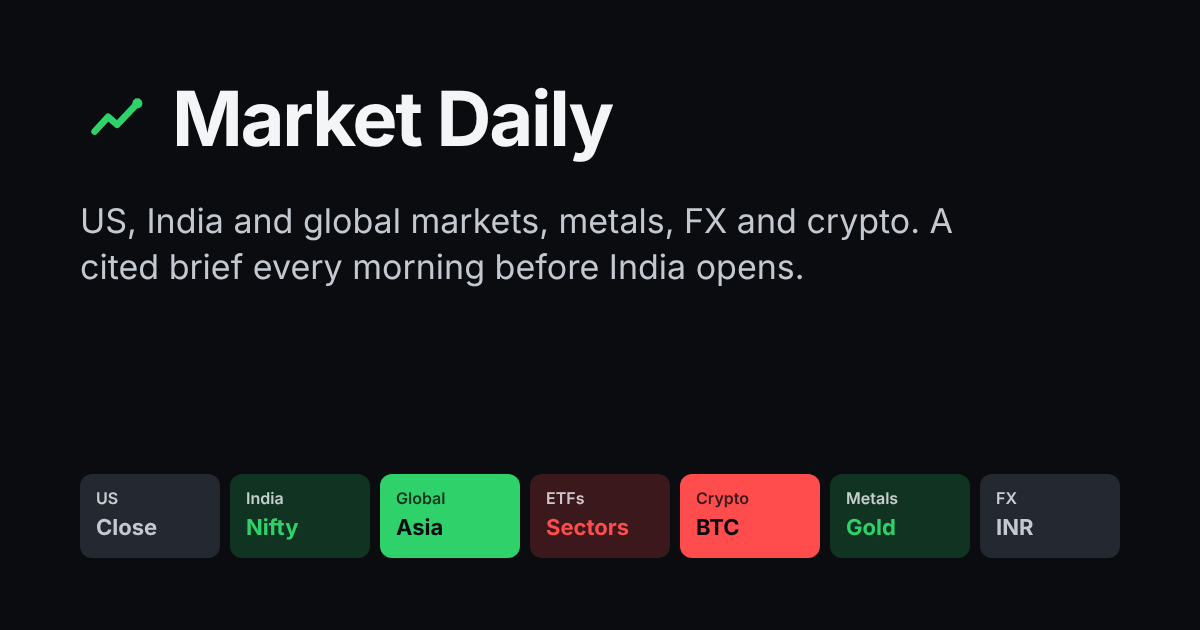
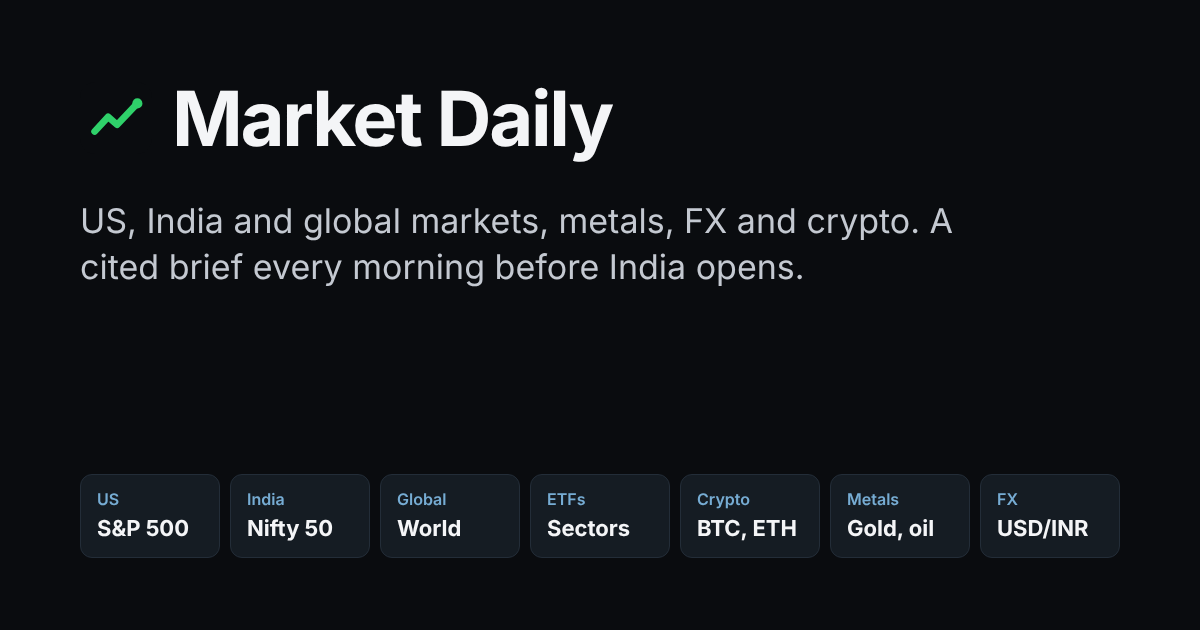
Review fixes: visible-by-default sections, consistent breadth, readability
- Sections never start hidden: the first-load motion is a 6px slide with no
  fade and no count-up, so previews, in-app browsers and background tabs see
  content
- Breadth gauge shows a percent and uses the same US, India and Global stock
  set as the What moved bars (41 of 156)
- Region bullets clamp to about two lines with a more/less toggle; on phones
  US and India summaries sit above the heatmaps
- Brighter secondary text in dark theme; phone ticker shows label over value
  and scrolls with an edge fade
- Fetch count opens a list of the assets that failed, with plain reasons
- IPO table drops Subscription and GMP columns until the brief has data;
  window status moves under the open date
- Calendar accepts date ranges for events without a confirmed day
- Brief: gold 1.2 percent from its low in This week, matching prices.json;
  undated results line moved to a 26 to 30 Oct range
- Routine prompt: one-decimal figures from prices.json used everywhere,
  ranges for undated calendar items
- Share card tiles are neutral so they never imply a direction

Note: b7cb23c says not merged to main; it was merged after review approval.

Claude-Session: https://claude.ai/code/session_01GLM1Jsr5Y5XpC82QRo9Mkp

diff --git a/index.html b/index.html
@@ -15,14 +15,14 @@
 <meta property="og:title" content="Market Daily">
 <meta property="og:description" content="US, India and global markets, metals, FX and crypto. A cited brief every morning before India opens.">
 <meta property="og:url" content="https://arnavhp18.github.io/market-daily/">
-<meta property="og:image" content="https://arnavhp18.github.io/market-daily/og.png">
+<meta property="og:image" content="https://arnavhp18.github.io/market-daily/og.png?v=2">
 <meta property="og:image:width" content="1200">
 <meta property="og:image:height" content="630">
 <meta property="og:image:alt" content="Market Daily: markets dashboard with a cited morning brief">
 <meta name="twitter:card" content="summary_large_image">
 <meta name="twitter:title" content="Market Daily">
 <meta name="twitter:description" content="US, India and global markets, metals, FX and crypto. A cited brief every morning before India opens.">
-<meta name="twitter:image" content="https://arnavhp18.github.io/market-daily/og.png">
+<meta name="twitter:image" content="https://arnavhp18.github.io/market-daily/og.png?v=2">
 <script>try { const t = localStorage.getItem("md_theme"); if (t === "light" || t === "dark") document.documentElement.dataset.theme = t; } catch {}</script>
 <link rel="preconnect" href="https://fonts.googleapis.com">
 <link href="https://fonts.googleapis.com/css2?family=Inter:wght@400;500;600;700&display=swap" rel="stylesheet">
@@ -30,7 +30,7 @@
 <style>
 :root,[data-theme="dark"]{
   --bg:#080B0F; --surface:#10151B; --surface-2:#171F28; --surface-3:#212B36; --line:#1F2832; --edge:transparent;
-  --ink:#F4F5F7; --ink-2:#C4C9D1; --muted:#8B93A0;
+  --ink:#F4F5F7; --ink-2:#D0D5DC; --muted:#A4ACB9;
   --up:#2FD16A; --down:#FF4D4D; --flat:#9AA3AF; --gold:#D9B45C;
   --up-rgb:47,209,106; --down-rgb:255,77,77;
   --up-strong:#2FD16A; --down-strong:#FF4D4D; --on-strong:#0A0C0F;
@@ -68,6 +68,12 @@ header.top.warn{background:var(--amber-bg);border-bottom-color:var(--gold)}
 .brand{display:inline-flex;align-items:center;gap:9px;font-size:16px;font-weight:700;letter-spacing:-.01em;white-space:nowrap} .brand svg{width:24px;height:24px}
 .status{flex:1;min-width:0;display:flex;flex-wrap:wrap;align-items:center;gap:2px 0;font-size:13px;color:var(--muted)}
 .status .si+.si::before{content:"·";margin:0 8px;opacity:.6}
+.health{display:inline;position:relative}
+.health summary{display:inline;cursor:pointer;list-style:none;text-decoration:underline dotted;text-underline-offset:3px}
+.health summary::-webkit-details-marker{display:none}
+.health .pop{position:absolute;top:calc(100% + 8px);left:0;z-index:30;width:min(300px,86vw);display:grid;gap:2px;padding:6px;background:var(--surface);border:1px solid var(--line);border-radius:10px;box-shadow:0 14px 34px rgba(0,0,0,.4)}
+.health .pop button{display:grid;text-align:left;padding:8px 10px;border-radius:7px;font-size:13px;color:var(--ink)} .health .pop button:hover{background:var(--surface-2)}
+.health .pop small{color:var(--muted);font-size:12px}
 header.top.warn .status{color:var(--gold)} .status b{font-weight:600}
 .tabs{display:flex;gap:2px;background:var(--surface);padding:3px;border-radius:10px;border:1px solid var(--edge)}
 .tabs button{padding:5px 14px;border-radius:8px;font-size:14px;font-weight:600;color:var(--muted)}
@@ -82,7 +88,7 @@ header.top.warn .status{color:var(--gold)} .status b{font-weight:600}
 .tk{flex:1 0 auto;display:inline-flex;align-items:baseline;justify-content:center;gap:6px;padding:8px 8px;white-space:nowrap;font-size:12px;border-right:1px solid var(--line)}
 .tape.more{-webkit-mask-image:linear-gradient(to right,#000 90%,transparent);mask-image:linear-gradient(to right,#000 90%,transparent)}
 .tk:last-child{border-right:0} .tk:hover{background:var(--surface-2)}
-.tk .n{color:var(--muted)} .tk .v{font-weight:600} .tk .c{font-weight:600}
+.tk .n{color:var(--ink-2)} .tk .vc{display:inline-flex;gap:6px} .tk .v{font-weight:600} .tk .c{font-weight:600}
 
 /* holdings strip */
 .hold{border-bottom:1px solid var(--line);padding:6px calc(var(--pad) - 8px)}
@@ -179,7 +185,7 @@ table.t a{text-decoration:none} table.t a:hover{text-decoration:underline}
 .gauge svg{width:100%;max-width:220px;margin-top:10px;overflow:visible}
 .gauge .gv{font-size:34px;font-weight:700;line-height:1;margin-top:-42px}
 .gauge .gl{font-size:15px;font-weight:600;margin-top:8px}
-.gauge .gs{font-size:13px;color:var(--muted);margin-top:2px}
+.gauge .gs{font-size:14px;color:var(--ink-2);margin-top:2px}
 .rh{display:flex;align-items:center;gap:12px}
 .rbadge{flex:0 0 34px;height:34px;border-radius:10px;display:grid;place-items:center;font-size:12px;font-weight:700;letter-spacing:.03em;background:var(--accent-soft);color:var(--accent)}
 .rix{flex:1;min-width:0;text-align:left}
@@ -207,6 +213,7 @@ table.t a{text-decoration:none} table.t a:hover{text-decoration:underline}
 .card li{position:relative;padding-left:14px;font-size:15px;line-height:1.5;color:var(--ink-2)}
 .card li::before{content:"";position:absolute;left:0;top:.66em;width:5px;height:5px;border-radius:50%;background:var(--muted)}
 .card li b{color:var(--ink);font-weight:600}
+.card .more{font-size:13px;font-weight:600;color:var(--accent);margin-left:2px}
 .cite{display:inline-block;font-size:12px;font-weight:600;line-height:1.5;color:var(--muted);text-decoration:none;border:1px solid var(--line);border-radius:5px;padding:0 6px;margin-left:6px;white-space:nowrap;vertical-align:1px}
 .cite:hover{color:var(--ink);border-color:var(--muted)}
 .heat{display:grid;grid-template-columns:repeat(auto-fill,minmax(122px,1fr));gap:6px}
@@ -313,8 +320,12 @@ textarea.holdings{width:100%;min-height:220px;background:var(--surface);border:1
   .list{border-right:0;overflow:visible;padding-bottom:20px}
   .app.v-list .detail{display:none} .app:not(.v-list) .list{display:none}
   .detail{overflow:visible;padding:16px 16px 40px} .back{display:inline-block}
-  .ov-heat{order:2} .ov-cards{order:3} .ov-ins{order:4}
-  .hero{grid-template-columns:1fr} .tk{padding:8px 14px}
+  .ov-cards{display:contents} .card.r-us{order:2;margin-top:14px} .card.r-india{order:3;margin-top:14px} .ov-heat{order:4} .card.r-global{order:5;margin-top:14px}
+  .ov-ins{order:6} .ov-week{order:7} .ov-cal{order:8} .ov-ipo{order:9} .ov-foot{order:10}
+  .tape{scroll-snap-type:x proximity} .tape.more{-webkit-mask-image:linear-gradient(to right,#000 90%,transparent);mask-image:linear-gradient(to right,#000 90%,transparent)}
+  .tk{flex:0 0 auto;flex-direction:column;align-items:flex-start;gap:1px;padding:6px 8px;font-size:12.5px;scroll-snap-align:start} .tk .vc{gap:4px} .tk .c{font-size:11px}
+  .tk .n{font-size:11px;font-weight:600;letter-spacing:.06em;text-transform:uppercase}
+  .hero{grid-template-columns:1fr}
   .gauge{display:grid;grid-template-columns:132px 1fr;column-gap:16px;align-items:center;text-align:left;padding:14px 16px}
   .gauge h4{grid-column:1/-1;margin-bottom:2px} .gauge svg{grid-column:1;grid-row:2 / span 3;margin-top:4px;max-width:132px}
   .gauge .gv,.gauge .gl,.gauge .gs{grid-column:2} .gauge .gv{margin-top:0;font-size:30px} .gauge .gl{margin-top:2px} section.block{padding:16px} .alloc{grid-template-columns:1fr;justify-items:center} .leg{width:100%}
@@ -325,7 +336,7 @@ textarea.holdings{width:100%;min-height:220px;background:var(--surface);border:1
   .price .big{font-size:36px} .returns{grid-template-columns:repeat(3,1fr)} .chart{height:260px}
   .cards,.wk,.kpis{grid-template-columns:1fr}
   .ev{grid-template-columns:1fr;gap:10px}
-  .when{flex-direction:row;align-items:center;gap:8px}
+  .when{flex-direction:row;flex-wrap:wrap;align-items:center;gap:6px 8px} .badge{white-space:normal} .ev{min-width:0}
   table.ipo thead{display:none}
   table.ipo,table.ipo tbody,table.ipo tr,table.ipo td{display:block;width:100%}
   table.ipo tr{background:var(--surface-2);border:1px solid var(--edge);border-radius:10px;padding:10px 12px;margin-bottom:10px}
@@ -336,7 +347,7 @@ textarea.holdings{width:100%;min-height:220px;background:var(--surface);border:1
 @media (hover:none){ .row .fav{opacity:.6} .row .fav[aria-pressed="true"]{opacity:1} }
 @media (prefers-reduced-motion:no-preference){ .row{transition:background .12s} .chev{transition:transform .15s}
   .anim .hl-card,.anim .gauge,.anim .card,.anim section.block{animation:rise .5s cubic-bezier(.2,.7,.2,1) both;animation-delay:calc(var(--i,0) * 60ms)}
-  @keyframes rise{from{opacity:0;transform:translateY(8px)}} }
+  @keyframes rise{from{transform:translateY(6px)}} }
 </style>
 </head>
 <body>
@@ -438,6 +449,9 @@ function applyTheme(t, save){
 /* ---------- top bar ---------- */
 function mode(xs){ const c = {}; let best = null; for (const x of xs){ c[x] = (c[x] || 0) + 1; if (!best || c[x] > c[best]) best = x; } return best; }
 const ageText = h => h < 48 ? Math.round(h) + " hours" : Math.floor(h / 24) + " days";
+const fetchReason = a => !a.error ? "Not enough price history this run"
+  : /stooq|empty history|delisted|No data/i.test(a.error) ? "Yahoo returned no data; the symbol may be delisted or renamed"
+  : /urlopen|reset|timed out|Connection/i.test(a.error) ? "Network error while fetching; usually clears on the next run" : a.error;
 function renderStatus(){
   const P = state.prices, B = state.brief, top = $("#top");
   const close = mode(P.assets.filter(a => !a.error && a.as_of && a.group !== "fx" && !["crypto","mutual_fund"].includes(a.type)).map(a => a.as_of));
@@ -451,8 +465,10 @@ function renderStatus(){
   if (warn) items.push(`<b>${briefAge === Infinity ? "No brief filed" : briefAge > 24 ? "Brief is " + ageText(briefAge) + " old" : "Prices are " + ageText(priceAge) + " old"}</b>`);
   if (close) items.push(`As of close, ${fmtDay(close)}`);
   items.push(`<span title="${esc(upd.toString())}">Updated ${when} (${rel})</span>`);
-  items.push(`<span${failed.length ? ` title="Not fetched: ${esc(failed.map(a => a.symbol).join(", "))}"` : ""}>${ok} of ${P.assets.length} fetched</span>`);
+  const wasOpen = !!$("#status .health")?.open;
+  items.push(failed.length ? `<details class="health"${wasOpen ? " open" : ""}><summary>${ok} of ${P.assets.length} fetched</summary><div class="pop">${failed.map(a => `<button data-id="${a.id}"><span><b>${esc(a.name)}</b> · ${esc(a.symbol)}</span><small>${esc(fetchReason(a))}</small></button>`).join("")}</div></details>` : `${ok} of ${P.assets.length} fetched`);
   $("#status").innerHTML = items.map(x => `<span class="si">${x}</span>`).join("");
+  $("#status").querySelectorAll(".pop [data-id]").forEach(b => b.onclick = () => { $("#status .health").open = false; openAsset(b.dataset.id, state.view === "asset" ? state.back : state.view); });
   top.classList.toggle("warn", warn);
 }
 
@@ -461,7 +477,7 @@ const TAPE = [["bzf","Brent"],["clf","WTI"],["gcf","Gold"],["sif","Silver"],["hg
 function renderTape(){
   $("#tape").innerHTML = TAPE.map(([id, n]) => { const a = byId(id); if (!a) return "";
     const v = noData(a) ? '<span class="v none">stale</span>' : `<span class="v">${id === "tnx" ? a.price.toFixed(2) + "%" : (a.currency === "INR" ? "₹" : "") + fmtNum(a.price, a.currency)}</span><span class="c ${cls(a.chg_1d_pct)}">${fmtPct(a.chg_1d_pct)}</span>`;
-    return `<button class="tk" data-id="${id}"><span class="n">${n}</span>${v}</button>`; }).join("");
+    return `<button class="tk" data-id="${id}"><span class="n">${n}</span><span class="vc">${v}</span></button>`; }).join("");
   $("#tape").querySelectorAll("[data-id]").forEach(b => b.onclick = () => openAsset(b.dataset.id, state.view === "asset" ? state.back : state.view));
   const t = $("#tape"), fade = () => t.classList.toggle("more", t.scrollLeft + t.clientWidth < t.scrollWidth - 4);
   fade(); t.onscroll = fade; window.addEventListener("resize", fade);
@@ -478,15 +494,10 @@ function areaSpark(ys){
   const d = ys.map((y,i) => `${(i/(ys.length-1)*w).toFixed(1)},${(h-3-(y-lo)/(hi-lo||1)*(h-6)).toFixed(1)}`).join(" ");
   return `<svg class="area" viewBox="0 0 ${w} ${h}" preserveAspectRatio="none" aria-hidden="true"><polygon points="0,${h} ${d} ${w},${h}" fill="url(#g-${c})"/><polyline points="${d}" fill="none" stroke="var(--${c})" stroke-width="2" stroke-linejoin="round" vector-effect="non-scaling-stroke"/></svg>`;
 }
-/* count-up and fade-in, first overview render only, skipped when reduced motion is requested */
+/* a short slide-in on first overview render; content is never hidden, so previews and background tabs see it */
 function animateIn(root){
   if (state.animated || !root || window.matchMedia("(prefers-reduced-motion: reduce)").matches) return; state.animated = true;
   root.classList.add("anim"); root.querySelectorAll(".hl-card,.gauge,.card,section.block").forEach((el, i) => el.style.setProperty("--i", Math.min(i, 8)));
-  root.querySelectorAll("[data-count]").forEach(el => {
-    const end = +el.dataset.count, dp = +(el.dataset.dp || 0), loc = el.dataset.cur === "INR" ? "en-IN" : "en-US", t0 = performance.now();
-    const step = t => { const k = Math.min(1, (t - t0) / 800); el.textContent = (end * (1 - Math.pow(1 - k, 3))).toLocaleString(loc, {minimumFractionDigits:dp, maximumFractionDigits:dp}); if (k < 1) requestAnimationFrame(step); };
-    requestAnimationFrame(step);
-  });
 }
 
 /* ---------- list ---------- */
@@ -663,13 +674,20 @@ const REGION_BADGE = {us:"US", india:"IN", global:"GL"};
 const shortIdx = n => n.replace(" Composite", "").replace("Dow Jones", "Dow").replace("Nifty Midcap 100", "Midcap 100");
 function regionHead(key, label){
   const [pid, others] = REGION_IDX[key], a = byId(pid), ok = a && !noData(a);
-  const main = ok ? `<button class="rix" data-id="${a.id}"><span class="rn">${label} · ${esc(a.name)}</span><span class="rv" data-count="${a.price}" data-dp="${dpFor(a.price)}" data-cur="${a.currency}">${fmtNum(a.price, a.currency)}</span><span class="rc ${cls(a.chg_1d_pct)}">${fmtPct(a.chg_1d_pct)}</span></button>` : `<div class="rix"><span class="rn">${label}</span></div>`;
+  const main = ok ? `<button class="rix" data-id="${a.id}"><span class="rn">${label} · ${esc(a.name)}</span><span class="rv">${fmtNum(a.price, a.currency)}</span><span class="rc ${cls(a.chg_1d_pct)}">${fmtPct(a.chg_1d_pct)}</span></button>` : `<div class="rix"><span class="rn">${label}</span></div>`;
   const chipsH = others.map(byId).filter(x => x && !noData(x)).map(x => `<button data-id="${x.id}">${esc(shortIdx(x.name))} <b class="${cls(x.chg_1d_pct)}">${fmtPct(x.chg_1d_pct)}</b></button>`).join("");
   return `<div class="rh"><span class="rbadge" aria-hidden="true">${REGION_BADGE[key]}</span>${main}</div>${ok ? areaSpark(a.spark) : ""}${chipsH ? `<div class="rchips">${chipsH}</div>` : ""}`;
 }
+const CLAMP = 90; // characters, about two lines in a region card
+function bulletHtml(x){
+  const t = String(x.text), cite = x.url ? `<a class="cite" href="${esc(x.url)}" target="_blank" rel="noopener" title="${esc(x.title || x.source || "Source")}">${esc(x.source || "Source")}</a>` : "";
+  if (t.length <= CLAMP + 25) return `<li>${boldNums(t)}${cite}</li>`;
+  let cut = t.lastIndexOf(" ", CLAMP); if (cut < 50) cut = CLAMP;
+  return `<li>${boldNums(t.slice(0, cut))}<span class="ell">…</span><span class="rest" hidden>${boldNums(t.slice(cut))}</span>${cite} <button class="more" aria-expanded="false">more</button></li>`;
+}
 function regionCard(key, label, b){
   const bs = toBullets(b.summary?.[key]).slice(0, 4);
-  return `<div class="card"><h3 class="sr">${label}</h3>${regionHead(key, label)}${bs.length ? `<ul>${bs.map(x => `<li>${boldNums(x.text)}${x.url ? `<a class="cite" href="${esc(x.url)}" target="_blank" rel="noopener" title="${esc(x.title || x.source || "Source")}">${esc(x.source || "Source")}</a>` : ""}</li>`).join("")}</ul>` : '<p class="none">Not filed.</p>'}</div>`;
+  return `<div class="card r-${key}"><h3 class="sr">${label}</h3>${regionHead(key, label)}${bs.length ? `<ul>${bs.map(bulletHtml).join("")}</ul>` : '<p class="none">Not filed.</p>'}</div>`;
 }
 /* insights: computed from prices (move vs usual swing, streaks, 52-week extremes, breadth); reasons come from the brief */
 function dailyStats(a){
@@ -711,9 +729,9 @@ function insightsSection(){
   const movers = live.filter(a => !/VIX/i.test(a.name) && Math.abs(a.chg_1d_pct) >= (a.type === "crypto" ? 5 : 3)).map(a => ({a, s: dailyStats(a)}));
   const score = ({a, s}) => (s?.z != null ? Math.abs(s.z) : Math.abs(a.chg_1d_pct) / 2) + (state.brief?.assets?.[a.id] ? 1 : 0) + (s?.biggest ? .5 : 0);
   const top = movers.sort((x, y) => score(y) - score(x)).slice(0, 6);
-  const breadth = [["us","US stocks"],["india","India stocks"],["global","Global stocks"]].map(([g, l]) => {
-    const xs = live.filter(a => a.group === g && a.type === "stock"), u = xs.filter(a => a.chg_1d_pct > 0).length, d = xs.filter(a => a.chg_1d_pct < 0).length, t = xs.length || 1;
-    return `<div class="br"><div class="lbl"><b>${l}</b><span><span class="up">${u} up</span> · <span class="down">${d} down</span></span></div><div class="bar" role="img" aria-label="${u} up, ${d} down of ${xs.length}"><i class="u" style="width:${(u / t * 100).toFixed(1)}%"></i><i style="flex:1"></i><i class="d" style="width:${(d / t * 100).toFixed(1)}%"></i></div></div>`;
+  const breadth = breadthBy().rows.map(({l, n, u, d}) => {
+    const t = n || 1;
+    return `<div class="br"><div class="lbl"><b>${l}</b><span><span class="up">${u} up</span> · <span class="down">${d} down</span></span></div><div class="bar" role="img" aria-label="${u} up, ${d} down of ${n}"><i class="u" style="width:${(u / t * 100).toFixed(1)}%"></i><i style="flex:1"></i><i class="d" style="width:${(d / t * 100).toFixed(1)}%"></i></div></div>`;
   }).join("");
   const highs = live.filter(a => at52(a) === "52-week high"), lows = live.filter(a => at52(a) === "52-week low");
   const streaks = live.filter(a => ["stock","etf","commodity","crypto"].includes(a.type)).map(a => ({a, k: dailyStats(a)?.streak || 0}));
@@ -739,42 +757,58 @@ function weekSection(b){
       <div><b>Losers</b>${losers.map(a => `<button data-id="${a.id}"><span class="nm">${esc(a.name)}</span><span class="down">${fmtPct(a.ret_1w)}</span></button>`).join("")}</div></div></div>
     <button class="linkbtn" id="wkmore" aria-controls="wkbody" aria-expanded="${open}">${open ? "Show less" : rest ? "Read the full week, with winners and losers" : "Show winners and losers"}</button></section>`;
 }
-function evRow(c){
-  const iso = isISO(c.when), n = iso ? relDays(c.when) : null; let hit = false;
-  const lines = String(c.what || "").split(/;\s*/).filter(Boolean).map(p => { const r = linkNames(p); hit = hit || r.hit; return `<li>${r.html}</li>`; });
-  return `<li class="ev${hit ? " hit" : ""}${n != null && n < 0 ? " past" : ""}"><div class="when"><span class="dchip">${iso ? fmtDay(c.when) : esc(c.when)}</span>${iso ? `<span class="badge${n === 0 || n === 1 ? " soon" : ""}">${relLabel(n)}</span>` : ""}</div><ul class="what">${lines.join("")}</ul></li>`;
+/* when: "YYYY-MM-DD" for a confirmed day, or "YYYY-MM-DD/YYYY-MM-DD" when only the window is known */
+const RANGE_RE = /^(\d{4}-\d{2}-\d{2})\/(\d{4}-\d{2}-\d{2})$/;
+function whenParts(w){
+  if (isISO(w)){ const n = relDays(w); return {chip: fmtDay(w), badge: relLabel(n), soon: n === 0 || n === 1, past: n < 0}; }
+  const m = String(w).match(RANGE_RE); if (!m) return {chip: esc(w)};
+  const s = relDays(m[1]), e = relDays(m[2]), [d1, mo1] = fmtDay(m[1]).split(" ").slice(1), [d2, mo2] = fmtDay(m[2]).split(" ").slice(1);
+  return {chip: mo1 === mo2 ? `${d1} to ${d2} ${mo2}` : `${d1} ${mo1} to ${d2} ${mo2}`, badge: e < 0 ? "past" : s <= 0 ? "this week" : `from ${relLabel(s)}`, past: e < 0};
 }
-function ipoStatus(i){
-  if (i.subscription) return esc(i.subscription);
-  if (!isISO(i.open)) return '<span class="none">–</span>';
+function evRow(c){
+  const w = whenParts(c.when); let hit = false;
+  const lines = String(c.what || "").split(/;\s*/).filter(Boolean).map(p => { const r = linkNames(p); hit = hit || r.hit; return `<li>${r.html}</li>`; });
+  return `<li class="ev${hit ? " hit" : ""}${w.past ? " past" : ""}"><div class="when"><span class="dchip">${w.chip}</span>${w.badge ? `<span class="badge${w.soon ? " soon" : ""}">${w.badge}</span>` : ""}</div><ul class="what">${lines.join("")}</ul></li>`;
+}
+function ipoWindow(i){
+  if (!isISO(i.open)) return "";
   const o = relDays(i.open), c = isISO(i.close) ? relDays(i.close) : o;
-  return `<span class="sub">${o > 0 ? "Opens " + relLabel(o) : c >= 0 ? "Open, closes " + relLabel(c) : "Closed"}</span>`;
+  return `<div class="sub" style="font-size:12px">${o > 0 ? relLabel(o) : c >= 0 ? "open now" : "closed"}</div>`;
 }
 function ipoSection(b){
   const ipos = b.ipos || [], src = (u, t) => u ? `<a href="${esc(u)}" target="_blank" rel="noopener">${t}</a>` : t;
+  const hasSub = ipos.some(i => i.subscription), hasGmp = ipos.some(i => i.gmp);
   const rows = ipos.map(i => `<tr><td data-l="Issue"><b>${esc(i.name)}</b><div class="sub" style="font-size:13px">${esc(i.sector || "")}${i.size ? " · " + esc(i.size) : ""}</div></td>
-    <td data-l="Market">${esc(i.market)}</td><td class="dt" data-l="Opens">${isISO(i.open) ? fmtDay(i.open) : esc(i.open)}</td><td class="dt" data-l="Closes">${isISO(i.close) ? fmtDay(i.close) : esc(i.close)}</td>
+    <td data-l="Market">${esc(i.market)}</td><td class="dt" data-l="Opens">${isISO(i.open) ? fmtDay(i.open) : esc(i.open)}${ipoWindow(i)}</td><td class="dt" data-l="Closes">${isISO(i.close) ? fmtDay(i.close) : esc(i.close)}</td>
     <td class="n" data-l="Price band">${esc(i.price_band || "–")}</td><td class="n" data-l="Lot">${esc(i.lot || "–")}</td>
-    <td data-l="Subscription">${ipoStatus(i)}</td><td class="n" data-l="GMP">${i.gmp ? src(i.gmp_url, esc(i.gmp)) : '<span class="none" title="Not sourced this run">–</span>'}</td>
+    ${hasSub ? `<td data-l="Subscription">${i.subscription ? esc(i.subscription) : '<span class="none">–</span>'}</td>` : ""}${hasGmp ? `<td class="n" data-l="GMP">${i.gmp ? src(i.gmp_url, esc(i.gmp)) : '<span class="none" title="Not sourced this run">–</span>'}</td>` : ""}
     <td data-l="Details">${i.source_url ? src(i.source_url, esc(i.source || "Source")) : ""}${i.drhp_url ? ` · ${src(i.drhp_url, "DRHP")}` : ""}</td></tr>`).join("");
   return `<section class="block ov-ipo"><h3><span class="ttl">${ico("rocket")}Upcoming IPOs</span><span class="sub">as found by the routine, verify before applying</span></h3>
-    ${ipos.length ? `<div class="tw"><table class="t ipo"><thead><tr><th>Issue</th><th>Market</th><th>Opens</th><th>Closes</th><th class="n">Price band</th><th class="n">Lot</th><th>Subscription</th><th class="n">GMP</th><th>Details</th></tr></thead><tbody>${rows}</tbody></table></div>` : '<p class="none">No IPOs filed yet.</p>'}
+    ${ipos.length ? `<div class="tw"><table class="t ipo"><thead><tr><th>Issue</th><th>Market</th><th>Opens</th><th>Closes</th><th class="n">Price band</th><th class="n">Lot</th>${hasSub ? "<th>Subscription</th>" : ""}${hasGmp ? '<th class="n">GMP</th>' : ""}<th>Details</th></tr></thead><tbody>${rows}</tbody></table></div>` : '<p class="none">No IPOs filed yet.</p>'}
     <div class="chips" style="margin-top:14px">${chips([["Apply, India: Zerodha","https://zerodha.com/ipo/"],["Groww IPO","https://groww.in/ipo"],["Upstox IPO","https://upstox.com/ipo/"],["NSE IPO board","https://www.nseindia.com/market-data/all-upcoming-issues-ipo"],["SEBI DRHPs","https://www.sebi.gov.in/sebiweb/home/HomeAction.do?doListing=yes&sid=3&ssid=15&smid=10"],["US calendar: Nasdaq","https://www.nasdaq.com/market-activity/ipos"],["Renaissance Capital","https://www.renaissancecapital.com/IPO-Center/Calendar"]], "buy")}</div>
-    <p class="foot" style="margin-top:12px">Grey-market premium is unofficial and unregulated; treat it as sentiment, not a price. US IPO allocations are broker-gated; Indian residents can normally only buy after listing via an LRS broker. Indian IPOs are applied through your broker with UPI or ASBA.</p></section>`;
+    <p class="foot" style="margin-top:12px">${hasGmp ? "Grey-market premium is unofficial and unregulated; treat it as sentiment, not a price. " : ""}US IPO allocations are broker-gated; Indian residents can normally only buy after listing via an LRS broker. Indian IPOs are applied through your broker with UPI or ASBA.</p></section>`;
 }
-function breadthAll(){ const xs = state.prices.assets.filter(a => a.type === "stock" && !noData(a) && a.chg_1d_pct != null), u = xs.filter(a => a.chg_1d_pct > 0).length; return {u, n: xs.length, pct: xs.length ? Math.round(u / xs.length * 100) : null}; }
+/* breadth: stocks in the US, India and Global groups; the gauge and the What moved bars both use this */
+function breadthBy(){
+  const rows = [["us","US stocks"],["india","India stocks"],["global","Global stocks"]].map(([g, l]) => {
+    const xs = state.prices.assets.filter(a => a.group === g && a.type === "stock" && !noData(a) && a.chg_1d_pct != null);
+    return {l, n: xs.length, u: xs.filter(a => a.chg_1d_pct > 0).length, d: xs.filter(a => a.chg_1d_pct < 0).length};
+  });
+  const u = rows.reduce((x, y) => x + y.u, 0), n = rows.reduce((x, y) => x + y.n, 0);
+  return {rows, u, n, pct: n ? Math.round(u / n * 100) : null};
+}
 const moodOf = p => p == null ? ["flat","No breadth data"] : p < 35 ? ["down","Broad selling"] : p < 45 ? ["down","Mostly lower"] : p <= 55 ? ["flat","Mixed session"] : p <= 65 ? ["up","Mostly higher"] : ["up","Broad buying"];
 function gauge(br, mc, ml){
   const v = br.pct ?? 50, th = Math.PI * (1 - v / 100), x = (100 + 80 * Math.cos(th)).toFixed(1), y = (100 - 80 * Math.sin(th)).toFixed(1);
-  return `<div class="gauge"><h4>Market breadth</h4><svg viewBox="0 0 200 110" role="img" aria-label="${br.u} of ${br.n} watchlist stocks rose">
+  return `<div class="gauge"><h4>Market breadth</h4><svg viewBox="0 0 200 110" role="img" aria-label="${br.pct ?? 0}% of stocks rose: ${br.u} of ${br.n}">
     <path d="M20 100 A80 80 0 0 1 180 100" fill="none" stroke="url(#g-gauge)" stroke-width="14" stroke-linecap="round" opacity=".9"/>
     <circle cx="${x}" cy="${y}" r="9" fill="var(--surface)" stroke="var(--ink)" stroke-width="3"/></svg>
-    <div class="gv" data-count="${br.pct ?? 0}" data-dp="0">${br.pct ?? "–"}</div><div class="gl ${mc}">${ml}</div><div class="gs">${br.u} of ${br.n} watchlist stocks rose</div></div>`;
+    <div class="gv">${br.pct == null ? "–" : br.pct + "%"}</div><div class="gl ${mc}">${ml}</div><div class="gs">${br.u} of ${br.n} US, India and Global stocks rose</div></div>`;
 }
 function renderOverview(){
   const b = state.brief || {}, d = $("#detail"), hm = state.wl?.heatmap || {}, hk = Object.keys(hm), hl = headlineParts(b);
   const day = isISO(b.date) ? fmtDay(b.date) + " " + b.date.slice(0,4) : esc(b.date || state.prices.generated_at.slice(0,10));
-  const br = breadthAll(), [mc, ml] = moodOf(br.pct);
+  const br = breadthBy(), [mc, ml] = moodOf(br.pct);
   d.innerHTML = `<div class="ov">
     <div class="hero ov-head"><header class="hl-card mood-${mc}"><div class="eyebrow"><span class="chip">${day} edition</span><span class="chip mood">${ml}</span></div><h2 class="headline">${esc(hl.main || "No edition filed yet. The routine writes today's brief.")}</h2>${hl.sub ? `<p class="subhead">${esc(hl.sub)}</p>` : ""}</header>${gauge(br, mc, ml)}</div>
     <div class="cards ov-cards">${[["us","US"],["india","India"],["global","Global"]].map(([k,l]) => regionCard(k, l, b)).join("")}</div>
@@ -788,6 +822,8 @@ function renderOverview(){
   d.querySelectorAll("#heatseg button").forEach(bt => bt.onclick = e => { e.stopPropagation(); state.heatRange = bt.dataset.f; renderOverview(); $(`#heatseg [data-f="${state.heatRange}"]`)?.focus(); });
   const tog = () => { state.weekOpen = !state.weekOpen; const y = window.scrollY, dy = d.scrollTop; renderOverview(); window.scrollTo(0, y); d.scrollTop = dy; $("#wktog")?.focus(); };
   $("#wktog").onclick = tog; $("#wkmore").onclick = tog;
+  d.querySelectorAll(".card .more").forEach(bt => bt.onclick = () => { const li = bt.closest("li"), open = bt.getAttribute("aria-expanded") !== "true";
+    $(".rest", li).hidden = !open; $(".ell", li).hidden = open; bt.setAttribute("aria-expanded", open); bt.textContent = open ? "less" : "more"; });
   animateIn($(".ov", d));
 }
 

diff --git a/ROUTINE_PROMPT.md b/ROUTINE_PROMPT.md
@@ -29,7 +29,7 @@ Search for IPOs opening in the next 14 days: India (NSE, BSE, SME excluded; sour
 If today is Saturday (UTC), also write `weekly.week_ending` and `weekly.narrative` (3 to 5 sentences on the week across US, India, metals, crypto, plus next week's setup). Do not list winners or losers; the page computes them. On other days keep the previous `weekly` object unchanged if it is less than 8 days old, else omit it.
 
 ## 4. Write `data/brief.json`
-Match the schema in `data/brief.sample.json` exactly: `date`, `generated_at`, `headline` (one line of about 15 words, the single most important cross-market fact today), `subhead` (one sentence of supporting detail with the key numbers), `summary.us`, `summary.india`, `summary.global` (each an array of exactly 3 objects `{text, source, url}`: one short claim of at most about 25 words with its key numbers, drivers not adjectives, and the story URL that supports that claim, taken from your search results), `calendar` (next 7 days; separate items within a day with "; " so the page can list them and highlight watchlist names), `ipos`, `weekly` (per 3b and 3c), and `assets` keyed by watchlist `id` with `why`, `outlook_1y`, `outlook_lt`, `news[]` (`title`, `source`, `url`, `date`). `why` is one sentence of at most 20 words on why the asset moved in the last session, taken from the first story in its `news[]` (put the most explanatory story first); write an empty string if the stories do not explain the move. The page shows it on the "What moved" cards. Plain language, no markdown inside strings, no em dashes anywhere.
+Match the schema in `data/brief.sample.json` exactly: `date`, `generated_at`, `headline` (one line of about 15 words, the single most important cross-market fact today), `subhead` (one sentence of supporting detail with the key numbers), `summary.us`, `summary.india`, `summary.global` (each an array of exactly 3 objects `{text, source, url}`: one short claim of at most about 25 words with its key numbers, drivers not adjectives, and the story URL that supports that claim, taken from your search results), `calendar` (next 7 days; separate items within a day with "; " so the page can list them and highlight watchlist names; set `when` to a single date only when the day is confirmed, otherwise use the window as "YYYY-MM-DD/YYYY-MM-DD" and never park an undated item under one day), `ipos`, `weekly` (per 3b and 3c), and `assets` keyed by watchlist `id` with `why`, `outlook_1y`, `outlook_lt`, `news[]` (`title`, `source`, `url`, `date`). `why` is one sentence of at most 20 words on why the asset moved in the last session, taken from the first story in its `news[]` (put the most explanatory story first); write an empty string if the stories do not explain the move. The page shows it on the "What moved" cards. Take every percentage move and every distance from a 52-week high or low from `data/prices.json` (`chg_1d_pct`, `price`, `hi_52w`, `lo_52w`), rounded to one decimal place, and use that same figure everywhere in the brief. On days you keep the previous `weekly` object, correct any such figure in it that no longer matches. Plain language, no markdown inside strings, no em dashes anywhere.
 
 Validate: `python3 -c "import json; json.load(open('data/brief.json'))"`.
 
